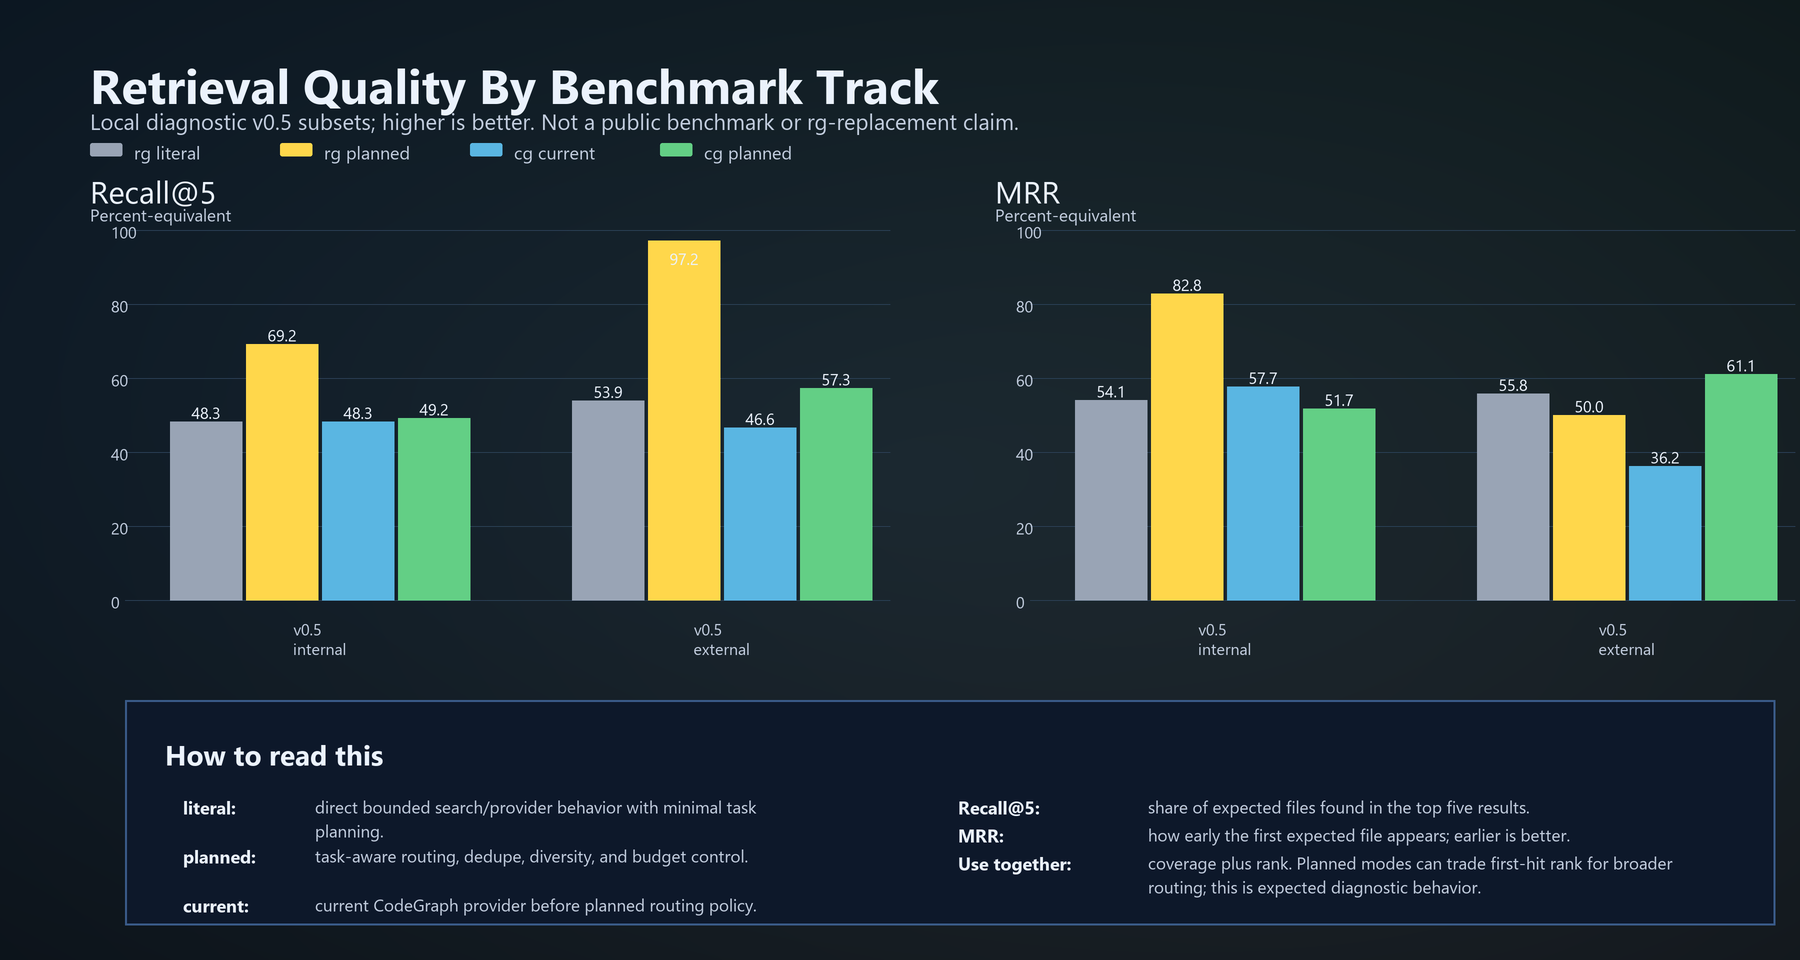
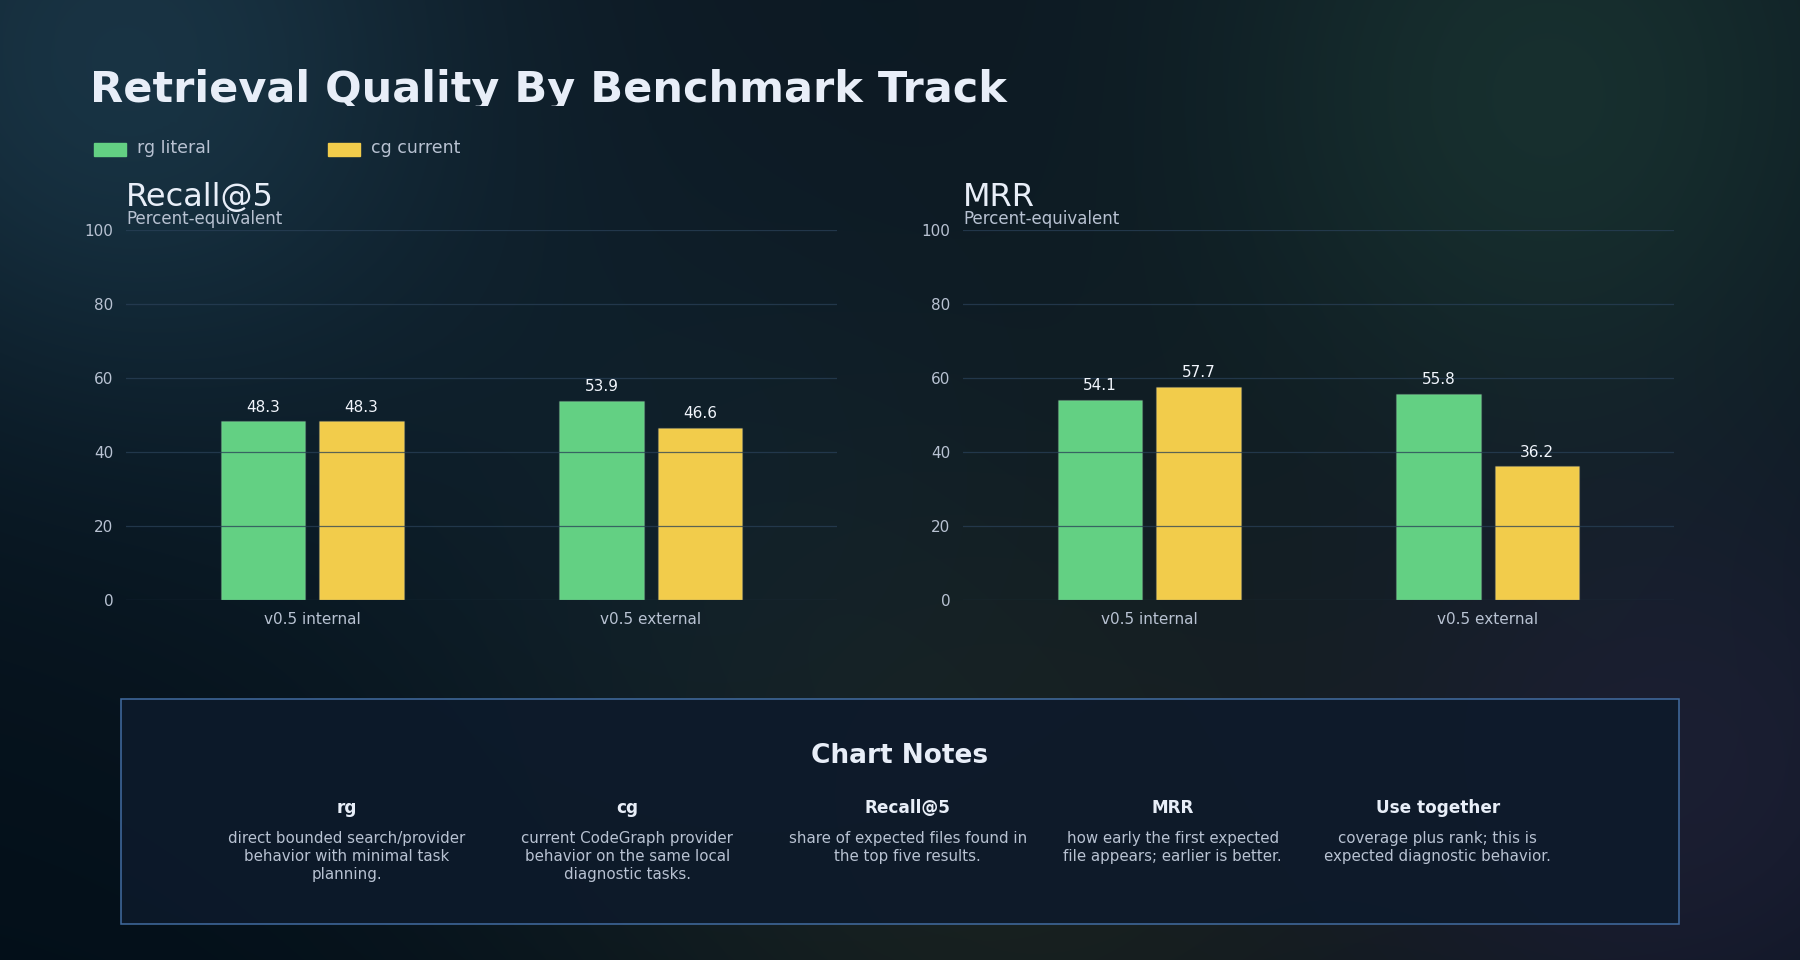
docs: update and clean up README
Refresh the front-facing README structure, restore the main visuals to full width, add measured local footprint documentation, and update README chart assets. Keep the language local/diagnostic and proof-boundary safe.

diff --git a/README.md b/README.md
@@ -17,36 +17,59 @@ context packets that a coding agent can inspect instead of guessing. Retrieval
 lanes can suggest likely files or symbols, but typed graph/source verification
 is the only path to graph proof.
 
-## Start Here
+<table>
+<tr>
+<td width="50%" valign="top">
 
-| Need | Go to |
-|---|---|
-| Build and run the first commands | [Quickstart](docs/quickstart.md) |
-| Use CodeGraph with a coding agent | [Agent Use](docs/agent-use.md) |
-| Understand the architecture and proof model | [Architecture Notes](docs/architecture.md) |
-| Understand benchmark and evidence boundaries | [Agent Benchmarking](docs/agent-benchmarking.md) |
-| Run local edit-guard diagnostics | [Agent Reliability Benchmark Lab](docs/agent-reliability-benchmark-lab.md) |
-| Contribute safely | [Contributing](CONTRIBUTING.md) |
+<h2>Start Here</h2>
 
-## Current Status
+<table>
+<thead>
+<tr><th>Need</th><th>Go to</th></tr>
+</thead>
+<tbody>
+<tr><td>Build and run the first commands</td><td><a href="docs/quickstart.md">Quickstart</a></td></tr>
+<tr><td>Use CodeGraph with a coding agent</td><td><a href="docs/agent-use.md">Agent Use</a></td></tr>
+<tr><td>Estimate local DB size and cold/warm timing</td><td><a href="docs/local-footprint.md">Local Footprint</a></td></tr>
+<tr><td>Understand the architecture and proof model</td><td><a href="docs/architecture.md">Architecture Notes</a></td></tr>
+<tr><td>Understand benchmark and evidence boundaries</td><td><a href="docs/agent-benchmarking.md">Agent Benchmarking</a></td></tr>
+<tr><td>Run local edit-guard diagnostics</td><td><a href="docs/agent-reliability-benchmark-lab.md">Agent Reliability Lab</a></td></tr>
+<tr><td>Contribute safely</td><td><a href="CONTRIBUTING.md">Contributing</a></td></tr>
+</tbody>
+</table>
 
-| Surface | Current behavior |
-|---|---|
-| Production agent profile | `agent-use` resolves a release-binary profile with the DB outside the source tree. |
-| Status and recovery | `agent-use status` is read-only and returns lifecycle blockers plus recovery commands. |
-| Indexing | `agent-use index` is the first mutating production-profile command. |
-| Query and context | `agent-use query` and `agent-use context-pack` read the same external profile DB and emit bounded agent JSON. |
-| Change tracking | `agent-use watch --once --changed` updates an existing safe profile DB; persistent watch schedules the same update primitive. |
-| Evidence boundary | Candidate, vector, text, and source-navigation evidence remain non-proof unless graph/source verification proves the relation. |
-| MCP | `agent-use mcp-config` emits a read-mostly MCP config tied to the external profile DB. |
+</td>
+<td width="50%" valign="top">
+
+<h2>Current Status</h2>
+
+<table>
+<thead>
+<tr><th>Surface</th><th>What it means</th></tr>
+</thead>
+<tbody>
+<tr><td>Agent-use profile</td><td>Keeps the agent-facing DB outside the source tree by default.</td></tr>
+<tr><td>Read-only status</td><td>Checks whether repo context is usable before indexing or querying.</td></tr>
+<tr><td>Indexing</td><td>Full indexing is manual; real-time delta sync can refresh changed files, and linter-style validation reports blockers, warnings, and unknowns.</td></tr>
+<tr><td>Query and context</td><td>Returns compact repo context for planning and inspection.</td></tr>
+<tr><td>Edit validation</td><td>Checks changed files after edits and reports blockers, warnings, and unknowns.</td></tr>
+<tr><td>MCP setup</td><td>Emits a read-mostly MCP config for agent clients.</td></tr>
+</tbody>
+</table>
+
+</td>
+</tr>
+</table>
 
 ## Product Shape
 
-![CodeGraph Agent Use Loop](docs/assets/readme/agent_use_loop.svg)
+<p align="center">
+  <img src="docs/assets/readme/agent_use_loop.svg" alt="CodeGraph Agent Use Loop" width="100%" />
+</p>
 
-| Roadmap To MVP4 | Retrieval Quality | SWE-bench Readiness |
+| Roadmap To MVP4 | Retrieval Quality | Local Agent Metrics |
 |---|---|---|
-| ![MVP2 To MVP4 Implementation Roadmap](docs/assets/readme/mvp2_to_mvp4_implementation_roadmap.png) | ![Retrieval Quality By Benchmark Track](docs/assets/readme/retrieval_quality_by_track.png) | ![SWE-bench Readiness Ladder](docs/assets/readme/swebench_readiness_ladder.png) |
+| ![MVP2 To MVP4 Implementation Roadmap](docs/assets/readme/mvp2_to_mvp4_implementation_roadmap.png) | ![Retrieval Quality By Benchmark Track](docs/assets/readme/retrieval_quality_by_track.png) | ![Local Agent Loop Metrics](docs/assets/readme/swebench_readiness_ladder.png) |
 
 These visuals summarize local diagnostic readiness and benchmark-lab evidence
 only. They are not official SWE-bench, RepoBench, CrossCodeEval, CGC, or `rg`
@@ -63,7 +86,9 @@ better-supported plans when CodeGraph is available alongside normal tools.
 
 ## Quickstart
 
-<img src="docs/assets/readme/codegraph_terminal.svg" alt="codegraph terminal animation" width="100%" />
+<p align="center">
+  <img src="docs/assets/readme/codegraph_terminal.svg" alt="codegraph terminal animation" width="100%" />
+</p>
 
 Build:
 
@@ -125,16 +150,30 @@ The full task lifecycle, including when to ask for planning packets, focused
 query packets, validate-edit packets, and explain/audit detail, lives in
 [Agent Use](docs/agent-use.md#agent-task-lifecycle).
 
-## Why It Exists
+## Measured Local Footprint
+
+These local release-binary measurements use the production `agent-use` profile
+with the DB outside the source tree. They are practical size examples, not
+public benchmark claims. Cold index is the one-time setup cost for a repo state;
+warm reads are the normal agent loop after the profile DB exists.
+
+| Repo / fixture | Source footprint | Files seen / indexed | Graph DB | Cold index | Warm status / query / context |
+|---|---:|---:|---:|---:|---:|
+| Smoke fixture | 0.52 MB | 3 / 2 | 0.55 MB | 1.07 s | 0.36 s / 0.44 s / 0.35 s |
+| codegraph-mcp clean worktree | 11.80 MB | 263 / 181 | 53.11 MB | 71.35 s | 0.79 s / 1.49 s / 1.87 s |
+
+In practice: expect to pay cold index when setting up a repo, after a stale or
+missing profile, or after a deliberate full refresh. Once warm, `status`,
+focused `query`, and `context-pack` calls are the usable tight-loop operations
+for planning, inspection, and validation while the agent continues using normal
+search, editing, and tests. Detailed sidecar sizes, read-path timings, method,
+and caveats are in [Local Footprint](docs/local-footprint.md).
+
+## Purpose
 
 Coding agents are strongest when they have current, compact, verifiable project
 memory. They are weakest when they have to infer APIs, schemas, call paths, data
 flow, tests, or security behavior from scattered text search results.
-
-Embeddings, BM25, binary signatures, and ranking help find candidates quickly.
-They do not prove correctness. Final context should come from graph facts,
-exactness labels, source spans, provenance, and stored path evidence, not from
-"top-k similar chunks."
 
 When reading any CodeGraph output, keep the evidence boundary intact:
 
@@ -142,8 +181,8 @@ When reading any CodeGraph output, keep the evidence boundary intact:
   proof.
 - Source-navigation and text evidence can guide inspection, but they do not
   prove typed graph relations.
-- Vector, binary, nuance, routing-packet, and candidate-spool lanes route
-  attention only until graph/source verification succeeds.
+- Retrieval hints can guide inspection, but they are not proof until
+  graph/source verification succeeds.
 - Local diagnostic benchmark output is useful for development, but it is not a
   public superiority claim.
 
@@ -166,7 +205,7 @@ exactness labels, and known limitations.
 - `codegraph-mcp serve-mcp` - expose local read-mostly MCP tools.
 - `codegraph-mcp serve-ui` - open the local Proof-Path UI.
 - `codegraph-mcp agent-use ...` - use the production agent profile with an
-  external DB and bounded agent JSON.
+  external DB and budget-aware agent JSON.
 - `codegraph-mcp languages` - inspect supported language frontends and proof
   limitations.
 
@@ -183,7 +222,22 @@ safely instead of silently reused.
 | WSL2 | Supported | Use Linux scripts inside an Ubuntu/Debian WSL2 distro |
 | macOS | Coming soon | Not currently tested, no CI coverage, not claimed as supported |
 
+## Safety and Scope
+
+- **Local first.** Default CLI graph state is local; production `agent-use`
+  graph state lives outside the source tree by default.
+- **Read-mostly MCP.** Source-editing and destructive tools are not exposed.
+- **Exact graph first.** Retrieval shortcuts cannot prove facts by themselves.
+- **Single-agent workflow.** Designed for one linear Codex-style coding agent,
+  not parallel subagent delegation.
+- **Honest measurement.** Unsupported, skipped, unavailable, or diagnostic data
+  stays `unknown`, `skipped`, or `diagnostic`. A timeout or partial run is never
+  counted as a win.
+
 ## Verification
+
+<details>
+<summary>Build, test, and smoke commands</summary>
 
 Core local checks:
 
@@ -211,17 +265,7 @@ powershell -NoProfile -ExecutionPolicy Bypass -File .\scripts\smoke_index.ps1
 The deterministic fixture at [fixtures/smoke/basic_repo](fixtures/smoke/basic_repo)
 is the mandatory CI-sized smoke. Full-repo indexing is an explicit opt-in check.
 
-## Safety and Scope
-
-- **Local first.** Default CLI graph state is local; production `agent-use`
-  graph state lives outside the source tree by default.
-- **Read-mostly MCP.** Source-editing and destructive tools are not exposed.
-- **Exact graph first.** Retrieval shortcuts cannot prove facts by themselves.
-- **Single-agent workflow.** Designed for one linear Codex-style coding agent,
-  not parallel subagent delegation.
-- **Honest measurement.** Unsupported, skipped, unavailable, or diagnostic data
-  stays `unknown`, `skipped`, or `diagnostic`. A timeout or partial run is never
-  counted as a win.
+</details>
 
 ## Contributor Guide
 
@@ -265,7 +309,7 @@ Branch: `benchmark-and-openevolve-lab`.
 
 Docs: [Agent Benchmarking](docs/agent-benchmarking.md),
 [Benchmark Guide](docs/benchmark-guide.md), [Benchmark Findings](docs/benchmark-findings.md),
-and [Agent Reliability Benchmark Lab](docs/agent-reliability-benchmark-lab.md).
+and [Agent Reliability Lab](docs/agent-reliability-benchmark-lab.md).
 
 Current lab tracks:
 

diff --git a/docs/local-footprint.md b/docs/local-footprint.md
@@ -1,0 +1,139 @@
+# Local Footprint And Timing
+
+This page records local footprint and cold-vs-warm timing examples for
+`agent-use`. It is meant to help users estimate the shape of a normal local
+setup. These measurements are not public benchmark claims, not performance
+guarantees, and not comparisons against other tools.
+
+All storage numbers below are shown in MB. Raw byte counts are omitted from the
+public table because the useful question is the practical size class, not exact
+filesystem accounting.
+
+## What Was Measured
+
+Each run used the production `agent-use` profile with an explicit external data
+root. No repo-local `.codegraph` directory was created or mutated.
+
+Measured commands:
+
+```powershell
+codegraph-mcp agent-use index --repo <repo> --json
+codegraph-mcp agent-use status --repo <repo> --json
+codegraph-mcp agent-use query symbols <symbol> --repo <repo> --limit 5 --agent-json
+codegraph-mcp agent-use context-pack --repo <repo> --task "<task>" --seed <symbol> --agent-json
+```
+
+Two timing layers matter:
+
+- **Process wall time:** the whole CLI invocation, including process startup,
+  DB open, lifecycle checks, JSON serialization, and exit.
+- **Read-path time:** the internal read-path timing reported in the agent JSON.
+
+For README-level expectations, process wall time is the more honest user-facing
+number.
+
+## Summary
+
+| Repo / fixture | Source footprint | Files seen / indexed | Graph DB | Sidecars | Cold index wall time | Warm status / query / context |
+|---|---:|---:|---:|---:|---:|---:|
+| Smoke fixture | 0.52 MB | 3 / 2 | 0.55 MB | 0.29 MB | 1.07 s | 0.36 s / 0.44 s / 0.35 s |
+| codegraph-mcp clean worktree | 11.80 MB | 263 / 181 | 53.11 MB | 18.63 MB | 71.35 s | 0.79 s / 1.49 s / 1.87 s |
+
+Warm timings are p50 process wall time from three repeated calls after the DB
+already existed.
+
+## Cold Vs Warm Behavior
+
+Cold indexing is the expensive step because it walks the repo, applies scope
+rules, parses supported source files, extracts graph facts and source spans,
+writes SQLite state, and builds bounded candidate sidecars.
+
+Warm `agent-use` reads are different. They reuse the existing external profile
+DB, run lifecycle/passport checks, perform bounded DB lookups, and emit compact
+agent JSON.
+
+That distinction is why the clean `codegraph-mcp` worktree took about 71 s to
+index cold, while warm status/query/context-pack calls were around 1-2 s at the
+whole-process level.
+
+## Detailed Metrics
+
+### Smoke fixture
+
+| Metric | Value |
+|---|---:|
+| Source footprint | 0.52 MB |
+| Source files in fixture | 6 |
+| Files seen / indexed | 3 / 2 |
+| Source spans | 40 |
+| Graph DB | 0.55 MB |
+| Candidate spool | 0.02 MB |
+| Candidate-spool query index | 0.25 MB |
+| Runtime vector sidecar | 0.02 MB |
+| External agent-use data total | 0.88 MB |
+| Cold index process wall time | 1.07 s |
+| Cold index reported wall time | 0.83 s |
+| Warm status p50 process / read-path | 0.36 s / 0.35 s |
+| Warm query p50 process / read-path | 0.44 s / 0.17 s |
+| Warm context-pack p50 process / read-path | 0.35 s / 0.18 s |
+
+### codegraph-mcp clean worktree
+
+| Metric | Value |
+|---|---:|
+| Source footprint | 11.80 MB |
+| Tracked files | 289 |
+| Files seen / indexed | 263 / 181 |
+| Source spans | 136,997 |
+| Graph DB | 53.11 MB |
+| Candidate spool | 1.05 MB |
+| Candidate-spool query index | 11.16 MB |
+| Runtime vector sidecar | 6.42 MB |
+| External agent-use data total | 71.77 MB |
+| Cold index process wall time | 71.35 s |
+| Cold index reported wall time | 70.51 s |
+| Warm status p50 process / read-path | 0.79 s / 0.77 s |
+| Warm query p50 process / read-path | 1.49 s / 0.32 s |
+| Warm context-pack p50 process / read-path | 1.87 s / 1.05 s |
+
+## What The Sidecars Mean
+
+The graph DB is the proof-bearing SQLite artifact. Sidecars are bounded support
+artifacts:
+
+- candidate spool: candidate-only context packets created during indexing;
+- candidate-spool query index: SQLite index over candidate packets;
+- runtime vector sidecar: deterministic local candidate chunks for recall help.
+
+Candidate and vector sidecars are not graph proof. They can route attention, but
+proof still comes from graph/source verification.
+
+## Reproducing A Local Run
+
+Use a clean checkout and a disposable external data root:
+
+```powershell
+$env:CODEGRAPH_AGENT_USE_DATA_ROOT = "C:\tmp\codegraph-footprint"
+cargo build --release --bin codegraph-mcp
+codegraph-mcp agent-use index --repo <repo> --json
+codegraph-mcp agent-use status --repo <repo> --json
+codegraph-mcp agent-use query symbols <symbol> --repo <repo> --limit 5 --agent-json
+codegraph-mcp agent-use context-pack --repo <repo> --task "<task>" --seed <symbol> --agent-json
+```
+
+Measure cold indexing separately from warm reads. For warm reads, run the
+status/query/context commands multiple times after the DB exists and report a
+median or p50.
+
+## Caveats
+
+- These numbers came from a local Windows run and should be treated as a size
+  and timing example, not as a benchmark result.
+- A fresh release rebuild was blocked in this session by Windows Application
+  Control / WDAC on a generated build-script executable. The measurements used
+  an existing runnable release binary from the local `fix` worktree.
+- Repo shape matters. DB size and index time depend on language mix, number of
+  supported source files, relation density, source spans, ignored paths, and
+  optional sidecar settings.
+- The current local vector lane is deterministic/token-based and candidate-only.
+  It is not learned production semantic quality and is not graph proof.
